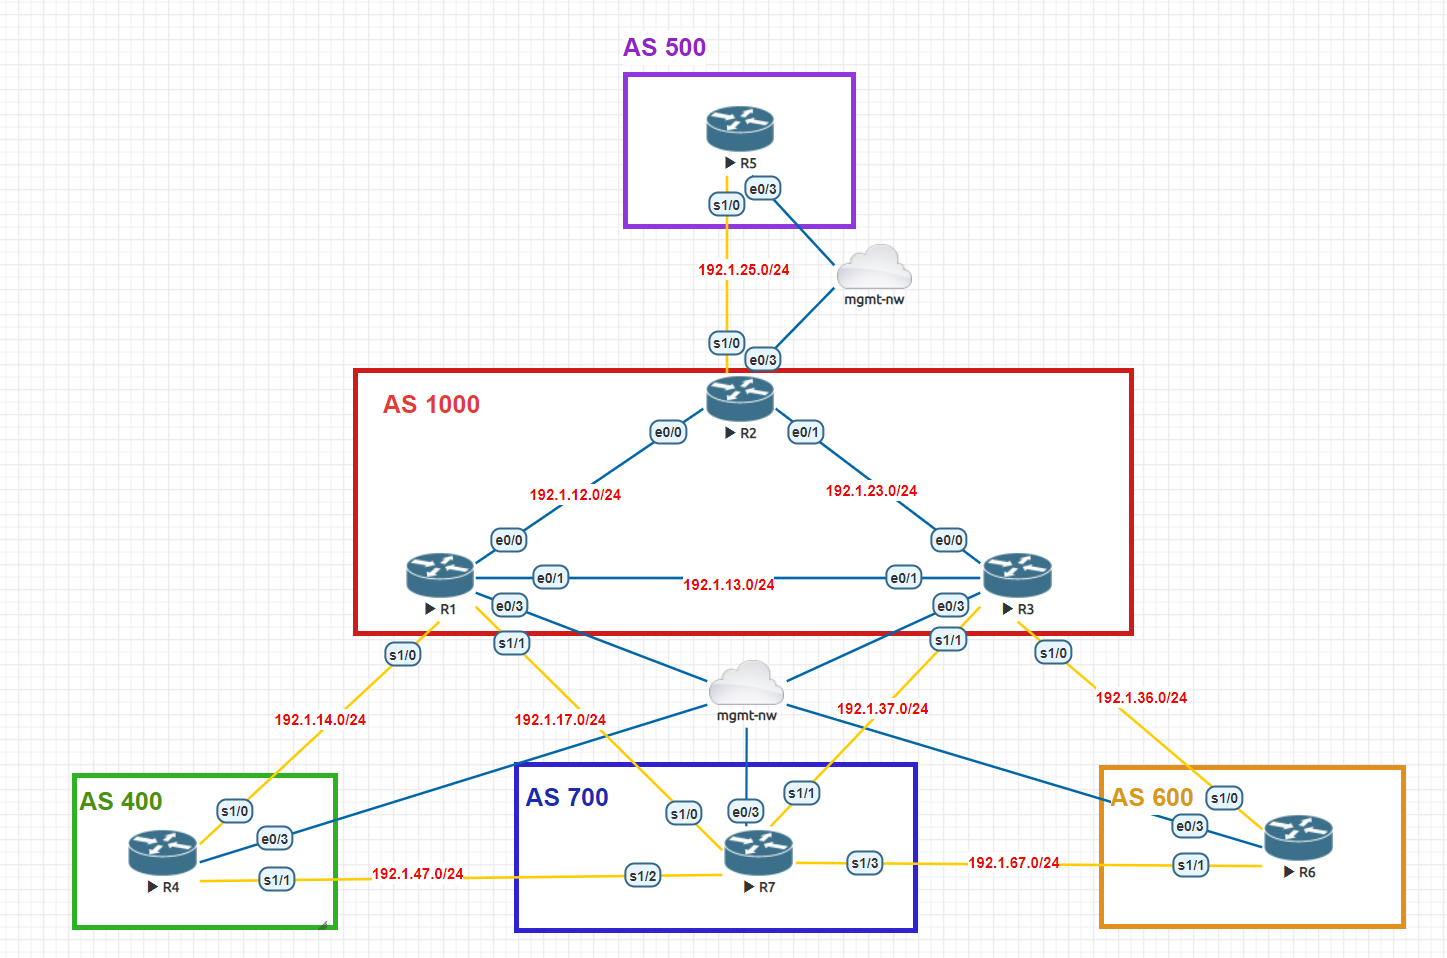
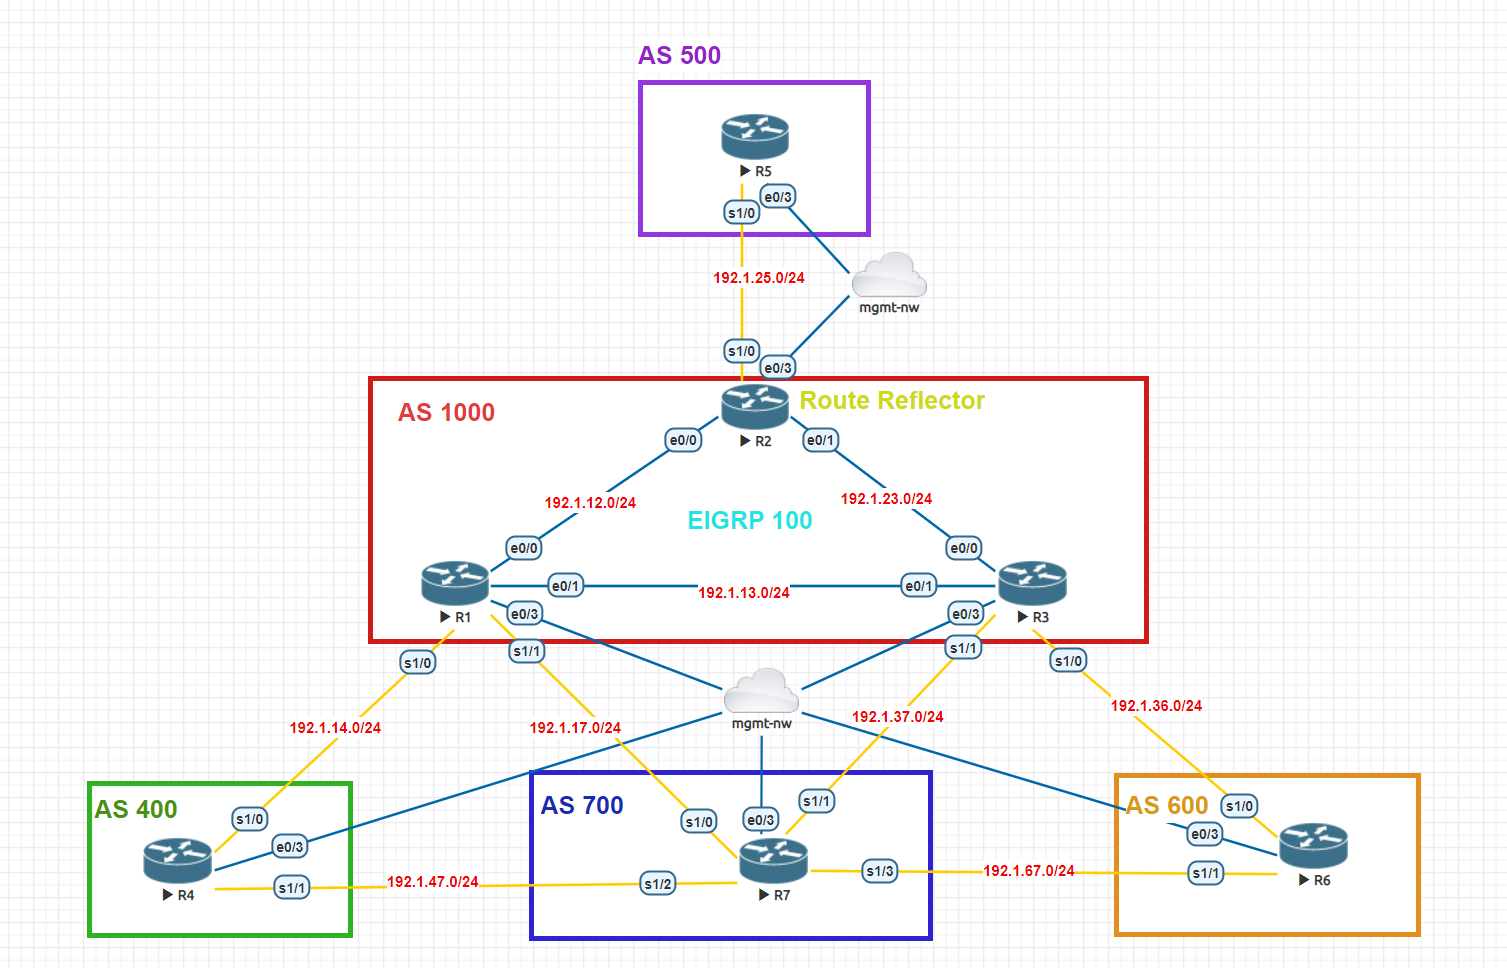
add bgp internal, change bgp configure to bgp external

Changed region(s): [[0.0311, 0.0303, 0.9952, 0.9687], [0.1866, 0.7265, 0.2488, 0.8173], [0.2488, 0.8173, 0.311, 0.8476]]

diff --git a/nafc/api/bgp.py b/nafc/api/bgp.py
@@ -22,6 +22,43 @@ def bgp_config(task):
     task.run(netmiko_send_config, config_commands=bgp_cms)
 
 
+def ibgp_config(task):
+    """ Configure ibgp Neighbor Relationship based on the Loopback
+    ibgp_neighbors: {"remote-as": ["list of remote AS's ip address"], ...}
+    At R2:
+    ibgp_neighbors: {"1000": ["10.1.1.1", "10.3.3.3"]} means that
+    the current host R2 will have ibgp neighbor relationship with
+    R1 (10.1.1.1) and R3 (10.3.3.3)
+    ibgp_update_source: {"lo11": ["10.1.1.1", "10.3.3.3"]} means that
+    loopback 11 will be used as update-source for 10.1.1.1 and 10.3.3.3
+    route_relector_clients: ["10.1.1.1", "10.3.3.3"]
+    Set R1 and R3 as route reflector clients, this will automatically
+    enable R2 as Route Reflector.
+    """
+    ibgp_cms = []
+    asn = task.host['asn']
+    ibgp_neighbors = task.host['ibgp_neighbors']
+    ibgp_update_source = task.host['ibgp_update_source']
+    ibgp_cms.append(f"router bgp {asn}")
+    for key, values in ibgp_neighbors.items():
+        for v in values:
+            ibgp_cms.append(f"neighbor {v} remote-as {key}")
+            ibgp_cms.append(f"neighbor {v} next-hop-self")
+    for key, values in ibgp_update_source.items():
+        for v in values:
+            ibgp_cms.append(f"neighbor {v} update-source {key}")
+    try:
+        route_relector_clients = task.host['route_relector_clients']
+        if route_relector_clients is not None:
+            for route_relector_client in route_relector_clients:
+                cm = f"neighbor {route_relector_client} route-reflector-client"
+                ibgp_cms.append(cm)
+    except KeyError:
+        pass
+    finally:
+        task.run(netmiko_send_config, config_commands=ibgp_cms)
+
+
 @click.group(name="bgp")
 def cli_bgp():
     """Command for BGP configuration
@@ -30,8 +67,8 @@ def cli_bgp():
 
 
 @cli_bgp.command(
-    name="configure",
-    help="Configure BGP from the information defined in hosts.yaml")
+    name="external",
+    help="Configure eBGP from the information defined in hosts.yaml")
 @click.option("--device", help="Configure only the device", required=False)
 @click.option(
     "--group", default="bgp", show_default=True,
@@ -43,4 +80,21 @@ def run_bgp_config(device, group):
     if group:
         nr = nr.filter(F(groups__contains=f"{group}"))
     result = nr.run(task=bgp_config)
+    print_result(result)
+
+
+@cli_bgp.command(
+    name="internal",
+    help="Configure iBGP from the information defined in hosts.yaml")
+@click.option("--device", help="Configure only the device", required=False)
+@click.option(
+    "--group", default="ibgp", show_default=True,
+    help="Configure all devices belong to the group", required=False)
+def run_ibgp_config(device, group):
+    nr = InitNornir(config_file=f"{config_file}")
+    if device:
+        nr = nr.filter(name=f"{device}")
+    if group:
+        nr = nr.filter(F(groups__contains=f"{group}"))
+    result = nr.run(task=ibgp_config)
     print_result(result)

diff --git a/nafc/api/eigrp.py b/nafc/api/eigrp.py
@@ -15,6 +15,7 @@ def eigrp_config(task):
     for key, values in eigrp_advertised.items():
         cm = f"router eigrp {key}"
         eigrp_cms.append(cm)
+        eigrp_cms.append("no auto")
         for v in values:
             nw = ipaddress.ip_network(v)
             cm = f"network {nw.network_address} {nw.hostmask}"

diff --git a/README.md b/README.md
@@ -27,7 +27,6 @@ There is the tutorial from Nornir website that we need to understand about [init
 eigrp:
   data:
     routing: eigrp
-    as: 100
 ospf:
   data:
     routing: ospf
@@ -72,36 +71,51 @@ xr:
 ```
 
 #### hosts.yaml
-
+Example of hosts.yaml file for Topology 1: BGP and EIGRP configuration
 ```yaml
 ---
 R1:
     hostname: 192.168.65.151
     groups:
         - bgp
+        - ibgp
+        - eigrp
     data:
         # interfaces: {name: interface ip address, ...}
         interfaces: {"e0/0": "192.1.12.1/24", "e0/1": "192.1.13.1/24",
                      "s1/0": "192.1.14.1/24", "s1/1": "192.1.17.1/24",
                      "lo0": "1.1.1.1/8", "lo1": "11.11.11.11/24",
-                     "lo11": "10.1.1.1/8"}
+                     "lo11": "10.1.1.1/24"}
         asn: 1000
         bgp_advertised: ['1.0.0.0/8', "11.11.11.0/24"]
         # bgp_neighbors: {"remote-as": ["list of remote AS's ip address"], ...}
         bgp_neighbors: {"400": ["192.1.14.4"], "700": ["192.1.17.7"]}
+        # ibgp_neighbors: {"remote-as": ["list of remote AS's ip address"], ...}
+        ibgp_neighbors: {"1000": ["10.2.2.2"]}
+        # ibgp_update_source: {"update_source": ["list of remote AS's ip address"], ...}
+        ibgp_update_source: {"lo11": ["10.2.2.2"]}
+        eigrp_advertised: {"100": ["192.1.12.0/24", "192.1.13.0/24", "10.0.0.0/8"]}
 
 R2:
     hostname: 192.168.65.152
     groups:
         - bgp
+        - ibgp
+        - eigrp
     data:
         interfaces: {"e0/0": "192.1.12.2/24", "e0/1": "192.1.23.2/24",
                      "s1/0": "192.1.25.2/24",
-                     "lo0": "2.2.2.2/8", "lo11": "10.2.2.2/8"}
+                     "lo0": "2.2.2.2/8", "lo11": "10.2.2.2/24"}
         asn: 1000
         bgp_advertised: ['2.0.0.0/8']
         # bgp_neighbors: {"remote-as": ["list of remote AS's ip address"], ...}
         bgp_neighbors: {"500": ["192.1.25.5"]}
+        # ibgp_neighbors: {"remote-as": ["list of remote AS's ip address"], ...}
+        ibgp_neighbors: {"1000": ["10.1.1.1", "10.3.3.3"]}
+        # ibgp_update_source: {"update_source": ["list of remote AS's ip address"], ...}
+        ibgp_update_source: {"lo11": ["10.1.1.1", "10.3.3.3"]}
+        eigrp_advertised: {"100": ["192.1.12.0/24", "192.1.23.0/24", "10.0.0.0/8"]}
+        route_relector_clients: ["10.1.1.1", "10.3.3.3"]
 ```
 
 The workflow is:
@@ -221,18 +235,27 @@ Steps:
 ![Alt text](images/03_bgp_interfaces_config.png)
 
 
-- Configure BGP with `fastcli bgp configure`.
+- Configure eBGP with `fastcli bgp external`.
 - Check with `fastcli show facts --command "sh ip bgp" --group bgp`
 
-![Alt text](images/03_bgp_configure.png)
+![Alt text](images/03_bgp_external.png)
+
+- Configure iBGP with `fastcli bgp internal`.
+- Check with `fastcli show facts --command "sh ip bgp" --group ibgp`
+
+![Alt text](images/03_bgp_internal.png)
+
+- Configure EIGRP with `fastcli eigrp configure`.
+- Check with `fastcli show facts --command "sh run | s router eigrp" --group eigrp`
+
+![Alt text](images/03_bgp_eigrp_config.png)
+
 
 ### Topology 2: OSPF-EIGRP-RIP configuration
 
-Configuration files under `inventory/ospf-eigrp-rip`
-
 ![Alt text](images/00_topo1.png)
 
-Configuration files under `inventory/bgp` folder.
+Configuration files under `inventory/ospf-eigrp-rip` folder.
 
 Steps:
 - Check the config_file variable in `constants.py`
